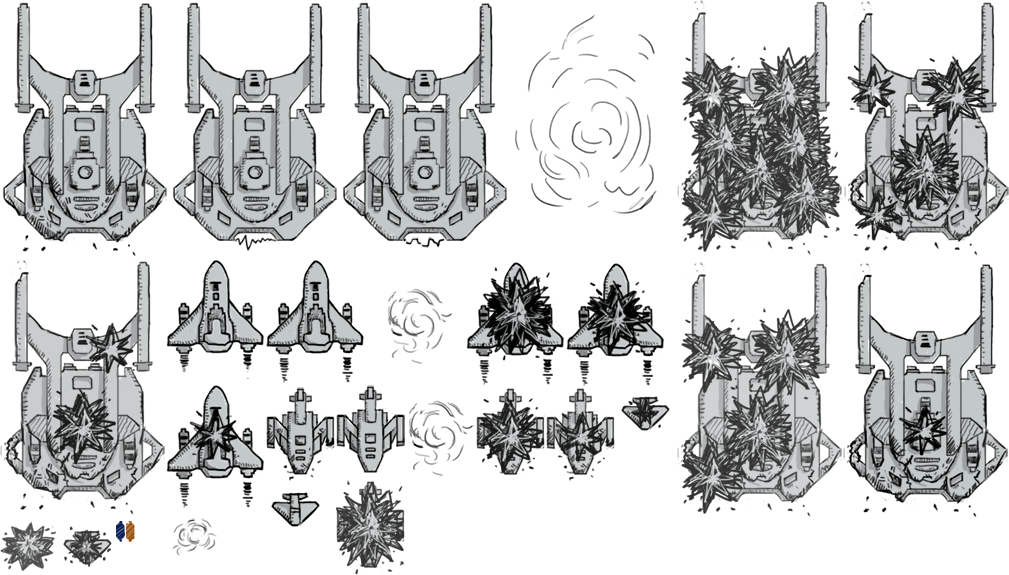
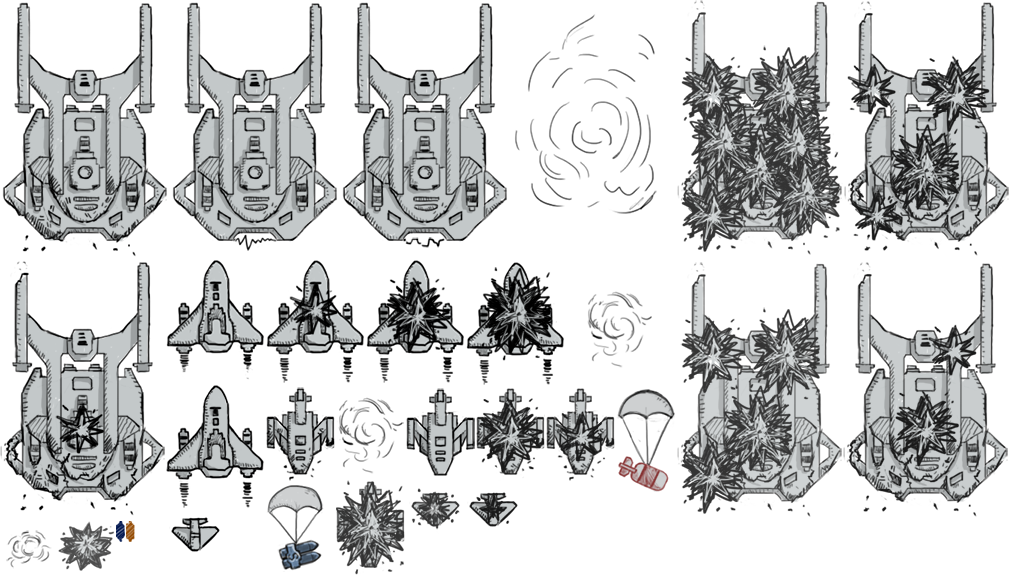
第七节 增加血瓶和子弹升级道具

diff --git a/src/Game.ts b/src/Game.ts
@@ -3,6 +3,24 @@
  */
 class Game {
     private hero: Role;
+    //敌机血量
+    private hps: Array<any> = [1, 2, 10];
+    //敌机速度
+    private speeds: Array<any> = [3, 2, 1];
+    //敌机被击半径
+    private radiuss: Array<any> = [15, 30, 70];
+
+    // 子弹发射偏移位置
+    private bulletPos: Array<Array<number>> = [[0], [-15, 15], [-30, 0, 30], [-45, -15, 15, 45]];
+    // 关卡等级
+    private level: number = 0;
+    // 积分成绩
+    private score: number = 0;
+    // 升级等级所需成绩数量
+    private levelUpScore: number = 0;
+    // 子弹级别
+    private bulletLevel: number = 0;
+
     constructor() {
         //初始化引擎，设置游戏宽高
         Laya.init(400, 852);
@@ -38,32 +56,35 @@ class Game {
                 // 根据飞机速度改变位置
                 role.y += role.speed;
                 // 如果敌机移动到显示区域外则移除
-                if (role.y > 1000 || !role.visible || (role.isBullet && role.y < -20)) {
+                if (role.y > 1000 || !role.visible || (role.heroType && role.y < -20)) {
                     // 舞台移除自己
                     role.removeSelf();
                     // 回收前重置状态
-                    role.isBullet = false;
+                    role.heroType = 0;
                     role.visible = true;
                     // 回收到对象池
                     Laya.Pool.recover("role", role);
                 }
             }
+            // 处理发射子弹逻辑
             if (role.shootType > 0) {
                 // 获取当前时间
                 var time: number = Laya.Browser.now();
                 // 如果当前时间大于下次射击时间
                 if (time > role.shootTime) {
                     role.shootTime = time + role.shootInterval;
-                    // 从对象池中创建一个子弹
-                    var bullet: Role = Laya.Pool.getItemByClass("role", Role);
-                    // 初始化子弹信息
-                    bullet.init("bullet1", role.camp, 1, -5, 1);
-                    // 设置角色类型为子弹类型
-                    bullet.isBullet = true;
-                    // 设置子弹位置
-                    bullet.pos(role.x, role.y - role.hitRadius - 10);
-                    // 添加到舞台上
-                    Laya.stage.addChild(bullet);
+                    // 根据不同的子弹类型，设置不同的位置
+                    var pos: Array<number> = this.bulletPos[role.shootType - 1]
+                    for (var index: number = 0; index < pos.length; index++) {
+                        // 从对象池中创建一个子弹
+                        var bullet: Role = Laya.Pool.getItemByClass("role", Role);
+                        // 初始化子弹信息
+                        bullet.init("bullet1", role.camp, 1, -4 - role.shootType - Math.floor(this.level / 15), 1, 1);
+                        // 设置子弹位置
+                        bullet.pos(role.x + pos[index], role.y - role.hitRadius - 10);
+                        // 添加到舞台上
+                        Laya.stage.addChild(bullet);
+                    }
                 }
             }
         }
@@ -102,16 +123,45 @@ class Game {
     lostHp(role: Role, lostHp: number): void {
         // 减血
         role.hp -= lostHp;
-        if (role.hp > 0) {
+        if (role.heroType === 2) {
+            // 每次吃一个子弹升级道具，子弹升级+1
+            this.bulletLevel++;
+            // 子弹每升2级，子弹数量增加1，最大数量为4
+            this.hero.shootType = Math.min(Math.floor(this.bulletLevel / 2) + 1, 4);
+            // 子弹级别越高，发射频率越快
+            this.hero.shootInterval = 500 - 20 * (this.bulletLevel > 20 ? 20 : this.bulletLevel);
+            // 隐藏道具
+            role.visible = false;
+        } else if (role.heroType === 3) {
+            // 每次吃一个医疗包，血量+1
+            this.hero.hp++;
+            if (this.hero.hp > 10) {
+                this.hero.hp = 10;
+            }
+            // 隐藏道具
+            role.visible = false;
+        } else if (role.hp > 0) {
             // 如果未死亡，播放碰撞的动画
             role.playAction("hit");
         } else {
-            if (role.isBullet) {
+            if (role.heroType) {
                 // 如果是子弹,则直接隐藏
                 role.visible = false;
             } else {
                 // 如果不是子弹,则播放爆炸的动画
                 role.playAction("down");
+                // 击落boss掉落血瓶或者子弹升级道具
+                if (role.type === 'enemy3') {
+                    //随机是子弹升级道具或者是血瓶
+                    var type: number = Math.random() < 0.7 ? 2 : 3;
+                    // 掉落血瓶或者是子弹升级道具
+                    var item: Role = Laya.Pool.getItemByClass('role', Role);
+                    // 初始化信息
+                    item.init("ufo" + (type - 1), role.camp, 1, 1, 15, type);
+                    // 设置位置
+                    item.pos(role.x, role.y);
+                    Laya.stage.addChild(item);
+                }
             }
         }
     }
@@ -119,12 +169,6 @@ class Game {
         //始终保持主角与鼠标位置一直
         this.hero.pos(Laya.stage.mouseX, Laya.stage.mouseY)
     }
-    //敌机血量
-    private hps: Array<any> = [1, 2, 10]
-    //敌机速度
-    private speeds: Array<any> = [3, 2, 1]
-    //敌机被击半径
-    private radiuss: Array<any> = [15, 30, 70]
     createEnemy(num: number): void {
         for (var i: number = 0; i < num; i++) {
             // 生成随机数

diff --git a/bin/js/Game.js b/bin/js/Game.js
@@ -9,6 +9,16 @@ var Game = /** @class */ (function () {
         this.speeds = [3, 2, 1];
         //敌机被击半径
         this.radiuss = [15, 30, 70];
+        // 子弹发射偏移位置
+        this.bulletPos = [[0], [-15, 15], [-30, 0, 30], [-45, -15, 15, 45]];
+        // 关卡等级
+        this.level = 0;
+        // 积分成绩
+        this.score = 0;
+        // 升级等级所需成绩数量
+        this.levelUpScore = 0;
+        // 子弹级别
+        this.bulletLevel = 0;
         //初始化引擎，设置游戏宽高
         Laya.init(400, 852);
         //创建循环滚动的背景
@@ -43,32 +53,35 @@ var Game = /** @class */ (function () {
                 // 根据飞机速度改变位置
                 role.y += role.speed;
                 // 如果敌机移动到显示区域外则移除
-                if (role.y > 1000 || !role.visible || (role.isBullet && role.y < -20)) {
+                if (role.y > 1000 || !role.visible || (role.heroType && role.y < -20)) {
                     // 舞台移除自己
                     role.removeSelf();
                     // 回收前重置状态
-                    role.isBullet = false;
+                    role.heroType = 0;
                     role.visible = true;
                     // 回收到对象池
                     Laya.Pool.recover("role", role);
                 }
             }
+            // 处理发射子弹逻辑
             if (role.shootType > 0) {
                 // 获取当前时间
                 var time = Laya.Browser.now();
                 // 如果当前时间大于下次射击时间
                 if (time > role.shootTime) {
                     role.shootTime = time + role.shootInterval;
-                    // 从对象池中创建一个子弹
-                    var bullet = Laya.Pool.getItemByClass("role", Role);
-                    // 初始化子弹信息
-                    bullet.init("bullet1", role.camp, 1, -5, 1);
-                    // 设置角色类型为子弹类型
-                    bullet.isBullet = true;
-                    // 设置子弹位置
-                    bullet.pos(role.x, role.y - role.hitRadius - 10);
-                    // 添加到舞台上
-                    Laya.stage.addChild(bullet);
+                    // 根据不同的子弹类型，设置不同的位置
+                    var pos = this.bulletPos[role.shootType - 1];
+                    for (var index = 0; index < pos.length; index++) {
+                        // 从对象池中创建一个子弹
+                        var bullet = Laya.Pool.getItemByClass("role", Role);
+                        // 初始化子弹信息
+                        bullet.init("bullet1", role.camp, 1, -4 - role.shootType - Math.floor(this.level / 15), 1, 1);
+                        // 设置子弹位置
+                        bullet.pos(role.x + pos[index], role.y - role.hitRadius - 10);
+                        // 添加到舞台上
+                        Laya.stage.addChild(bullet);
+                    }
                 }
             }
         }
@@ -109,18 +122,49 @@ var Game = /** @class */ (function () {
     Game.prototype.lostHp = function (role, lostHp) {
         // 减血
         role.hp -= lostHp;
-        if (role.hp > 0) {
+        if (role.heroType === 2) {
+            // 每次吃一个子弹升级道具，子弹升级+1
+            this.bulletLevel++;
+            // 子弹每升2级，子弹数量增加1，最大数量为4
+            this.hero.shootType = Math.min(Math.floor(this.bulletLevel / 2) + 1, 4);
+            // 子弹级别越高，发射频率越快
+            this.hero.shootInterval = 500 - 20 * (this.bulletLevel > 20 ? 20 : this.bulletLevel);
+            // 隐藏道具
+            role.visible = false;
+        }
+        else if (role.heroType === 3) {
+            // 每次吃一个医疗包，血量+1
+            this.hero.hp++;
+            if (this.hero.hp > 10) {
+                this.hero.hp = 10;
+            }
+            // 隐藏道具
+            role.visible = false;
+        }
+        else if (role.hp > 0) {
             // 如果未死亡，播放碰撞的动画
             role.playAction("hit");
         }
         else {
-            if (role.isBullet) {
+            if (role.heroType) {
                 // 如果是子弹,则直接隐藏
                 role.visible = false;
             }
             else {
                 // 如果不是子弹,则播放爆炸的动画
                 role.playAction("down");
+                // 击落boss掉落血瓶或者子弹升级道具
+                if (role.type === 'enemy3') {
+                    //随机是子弹升级道具或者是血瓶
+                    var type = Math.random() < 0.7 ? 2 : 3;
+                    // 掉落血瓶或者是子弹升级道具
+                    var item = Laya.Pool.getItemByClass('role', Role);
+                    // 初始化信息
+                    item.init("ufo" + (type - 1), role.camp, 1, 1, 15, type);
+                    // 设置位置
+                    item.pos(role.x, role.y);
+                    Laya.stage.addChild(item);
+                }
             }
         }
     };

diff --git a/src/Role.ts b/src/Role.ts
@@ -7,7 +7,7 @@ class Role extends Laya.Sprite {
     // 定义动画是否已被缓存
     private static cached: boolean = false;
     // 角色类型
-    private type: string;
+    public type: string;
     // 阵营
     public camp: number;
     // 血量
@@ -25,20 +25,22 @@ class Role extends Laya.Sprite {
     public shootTime: number = Laya.Browser.now() + 2000;
     // 当前动作
     public action: string = "";
-    // 是否是子弹
-    public isBullet: boolean = false;
+    // 主角方类型 0、普通；1、子弹；2、炸药；3、补给品
+    public heroType: number = 0;
+
 
     constructor() {
         super();
         // 初始化
         // this.init();
     }
-    public init(_type: string, _camp: number, _hp: number, _speed: number, _hitRadius: number): void {
+    public init(_type: string, _camp: number, _hp: number, _speed: number, _hitRadius: number, _heroType: number = 0): void {
         this.type = _type;
         this.camp = _camp;
         this.hp = _hp;
         this.speed = _speed;
         this.hitRadius = _hitRadius;
+        this.heroType = _heroType;
         if (!Role.cached) {
             Role.cached = true;
             // 缓存主角飞行动画
@@ -61,10 +63,14 @@ class Role extends Laya.Sprite {
             Laya.Animation.createFrames(["war/enemy3_down1.png", "war/enemy3_down2.png", "war/enemy3_down3.png", "war/enemy3_down4.png", "war/enemy3_down5.png", "war/enemy3_down6.png"], "enemy3_down");
             // 缓存敌机3的碰撞动画
             Laya.Animation.createFrames(["war/enemy3_hit.png"], "enemy3_hit");
-            // 缓存子弹动画
+            // 缓存子弹1动画
             Laya.Animation.createFrames(["war/bullet1.png"], "bullet1_fly");
-            // 缓存子弹动画
+            // 缓存子弹2动画
             Laya.Animation.createFrames(["war/bullet2.png"], "bullet2_fly");
+            // 缓存强化包动画
+            Laya.Animation.createFrames(["war/ufo1.png"], "ufo1_fly");
+            // 缓存医疗包动画
+            Laya.Animation.createFrames(["war/ufo2.png"], "ufo2_fly");
         }
         if (!this.body) {
             // 创建一个动画作为飞机的身体

diff --git a/bin/js/Role.js b/bin/js/Role.js
@@ -26,18 +26,20 @@ var Role = /** @class */ (function (_super) {
         _this.shootTime = Laya.Browser.now() + 2000;
         // 当前动作
         _this.action = "";
-        // 是否是子弹
-        _this.isBullet = false;
+        // 主角方类型 0、普通；1、子弹；2、炸药；3、补给品
+        _this.heroType = 0;
         return _this;
         // 初始化
         // this.init();
     }
-    Role.prototype.init = function (_type, _camp, _hp, _speed, _hitRadius) {
+    Role.prototype.init = function (_type, _camp, _hp, _speed, _hitRadius, _heroType) {
+        if (_heroType === void 0) { _heroType = 0; }
         this.type = _type;
         this.camp = _camp;
         this.hp = _hp;
         this.speed = _speed;
         this.hitRadius = _hitRadius;
+        this.heroType = _heroType;
         if (!Role.cached) {
             Role.cached = true;
             // 缓存主角飞行动画
@@ -60,10 +62,14 @@ var Role = /** @class */ (function (_super) {
             Laya.Animation.createFrames(["war/enemy3_down1.png", "war/enemy3_down2.png", "war/enemy3_down3.png", "war/enemy3_down4.png", "war/enemy3_down5.png", "war/enemy3_down6.png"], "enemy3_down");
             // 缓存敌机3的碰撞动画
             Laya.Animation.createFrames(["war/enemy3_hit.png"], "enemy3_hit");
-            // 缓存子弹动画
+            // 缓存子弹1动画
             Laya.Animation.createFrames(["war/bullet1.png"], "bullet1_fly");
-            // 缓存子弹动画
+            // 缓存子弹2动画
             Laya.Animation.createFrames(["war/bullet2.png"], "bullet2_fly");
+            // 缓存强化包动画
+            Laya.Animation.createFrames(["war/ufo1.png"], "ufo1_fly");
+            // 缓存医疗包动画
+            Laya.Animation.createFrames(["war/ufo2.png"], "ufo2_fly");
         }
         if (!this.body) {
             // 创建一个动画作为飞机的身体
